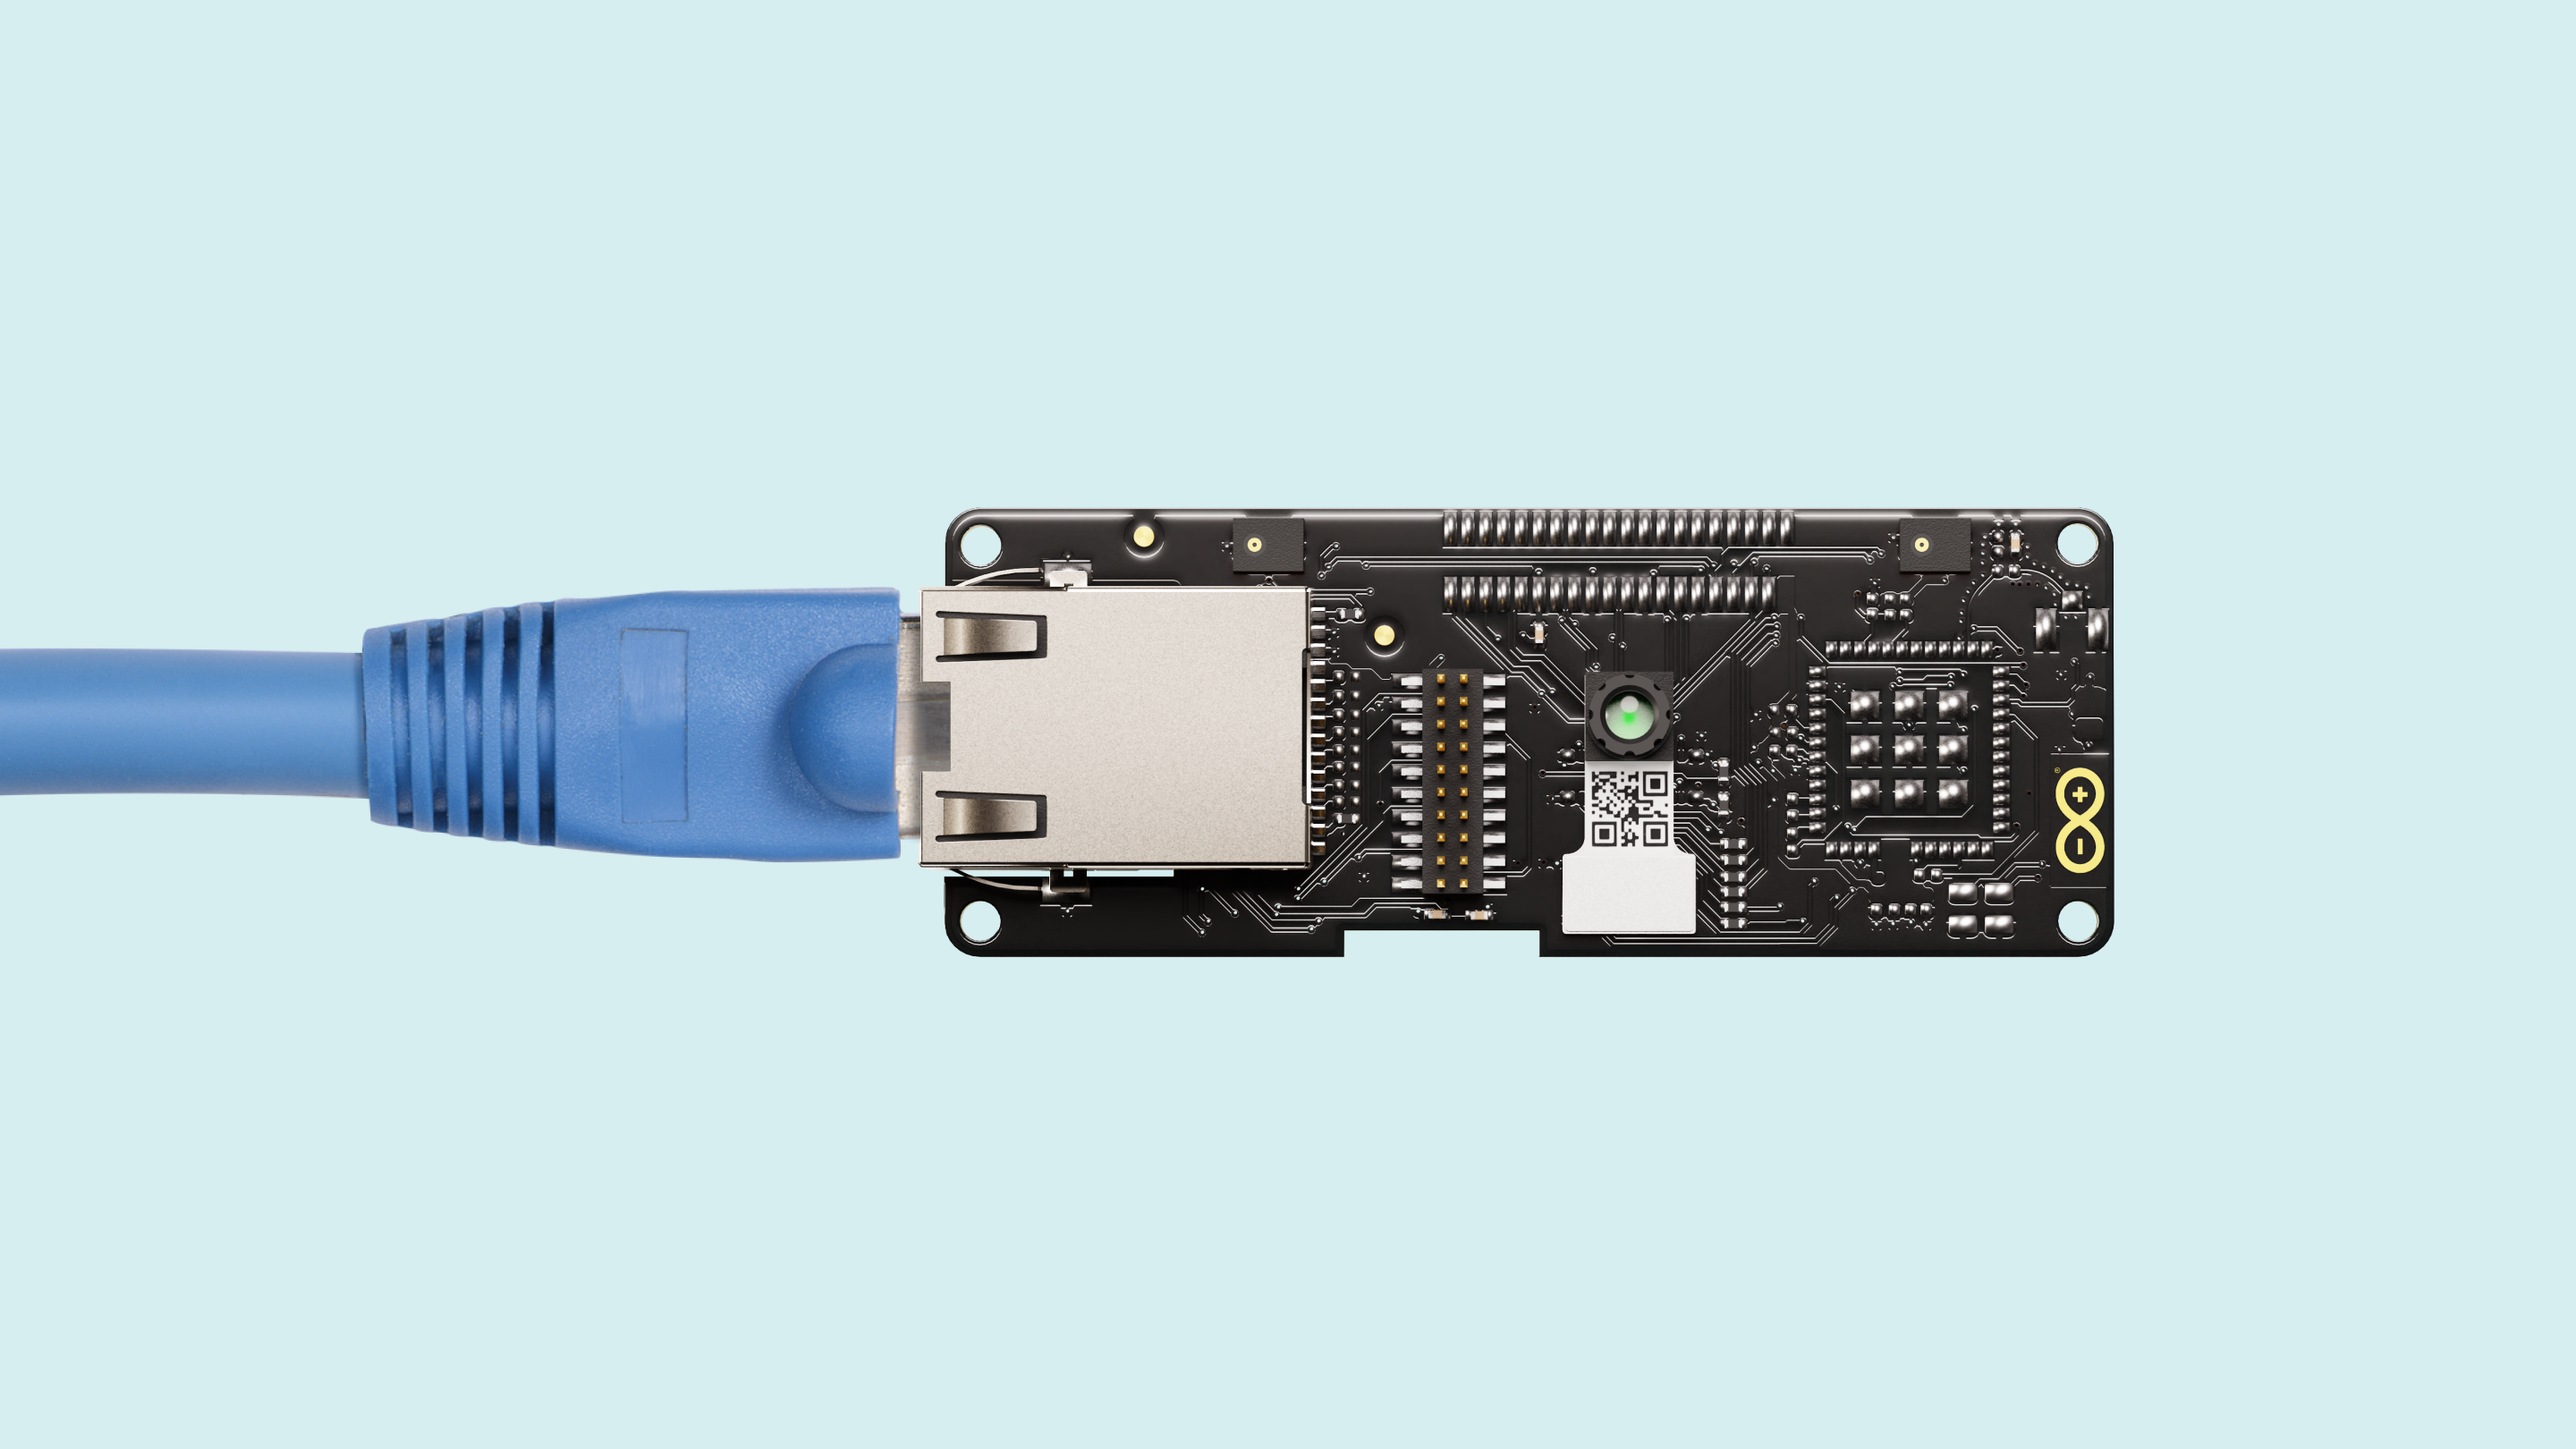
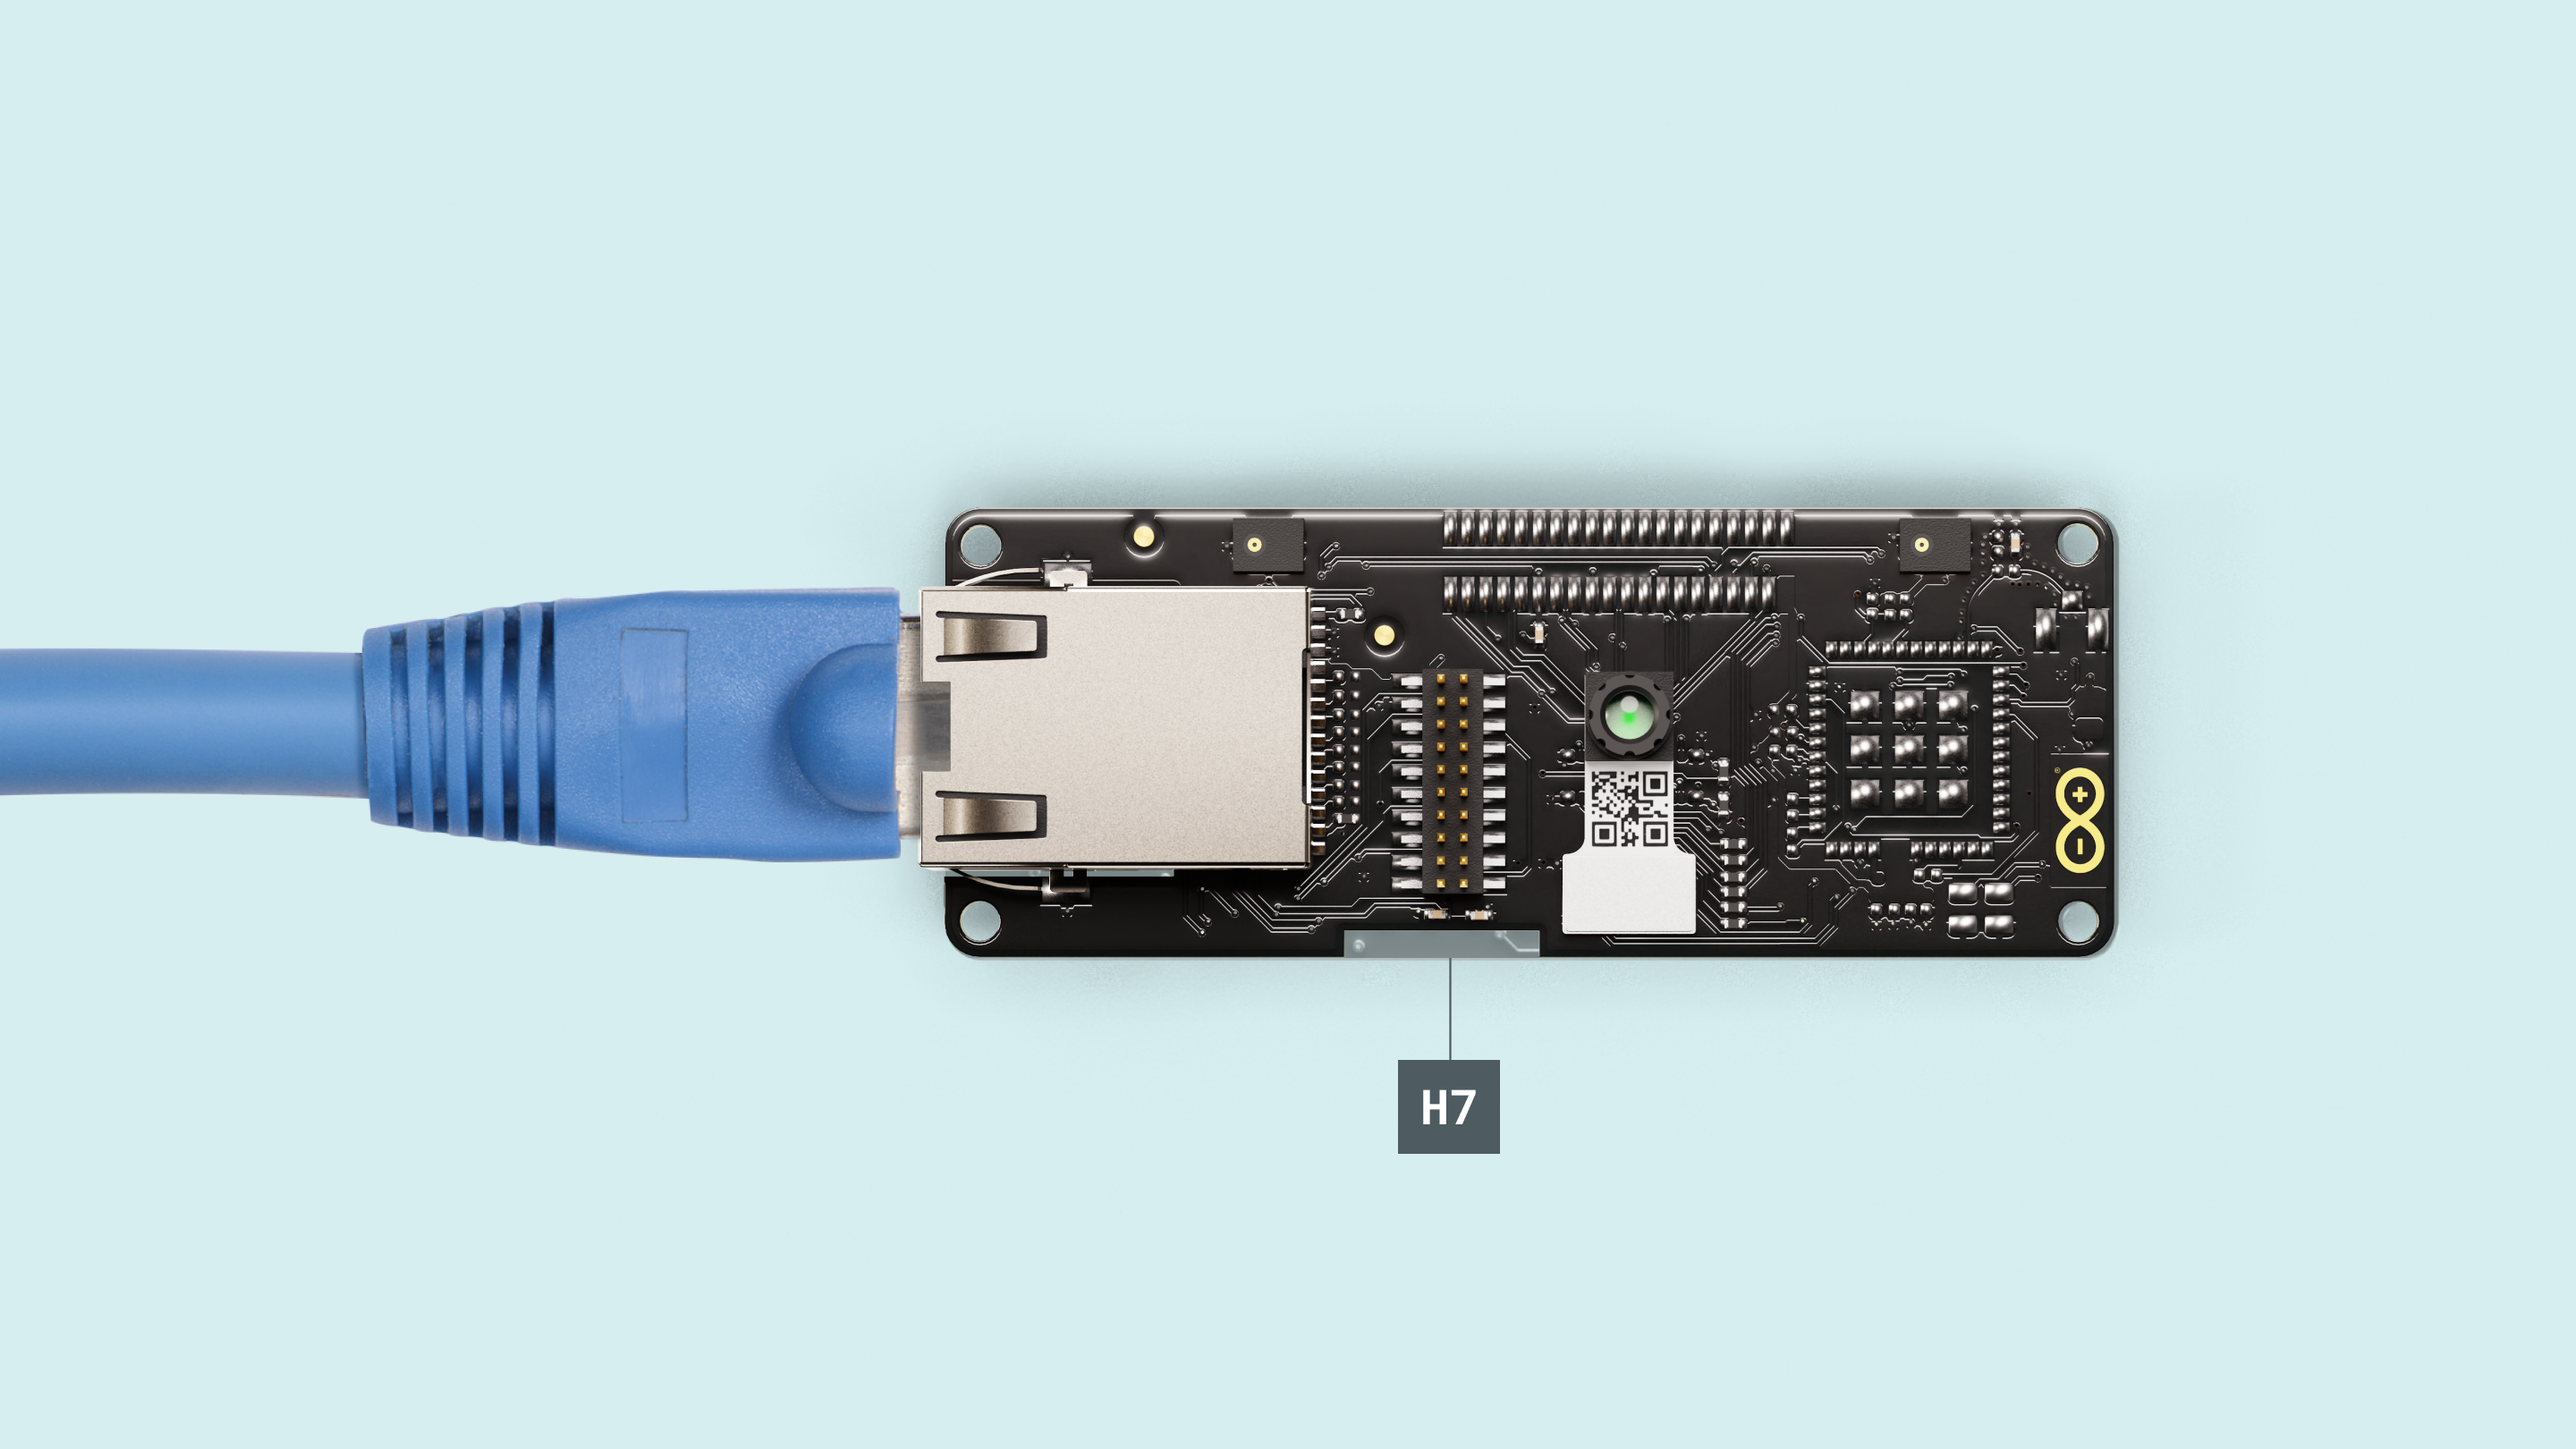
LoRa section initiated

diff --git a/content/hardware/04.pro/shields/portenta-vision-shield/tutorials/user-manual/content.md b/content/hardware/04.pro/shields/portenta-vision-shield/tutorials/user-manual/content.md
@@ -748,4 +748,10 @@ Run the script and the current date and time will be printed in the OpenMV IDE S
 
 ### LoRa® (ASX00026)
 
-To 
+The **Vision Shield - LoRa®** can extend our project connectivity by leveraging it LoRa® module for long-range communication in remote areas with a lack of internet access.
+
+![LoRa® antenna connection](assets/antenna.png)
+
+First, connect the Vision Shield - LoRa® to the Portenta H7. Attach the LoRa® antenna to its respective connector. Now connect the USB-C® cable to the Portenta H7 and your computer. 
+
+Now you are ready to test the connectivity with the following Python script. This example lets you connect to The Things Network using LoRaWAN® and send a `Hello World` message to it.
